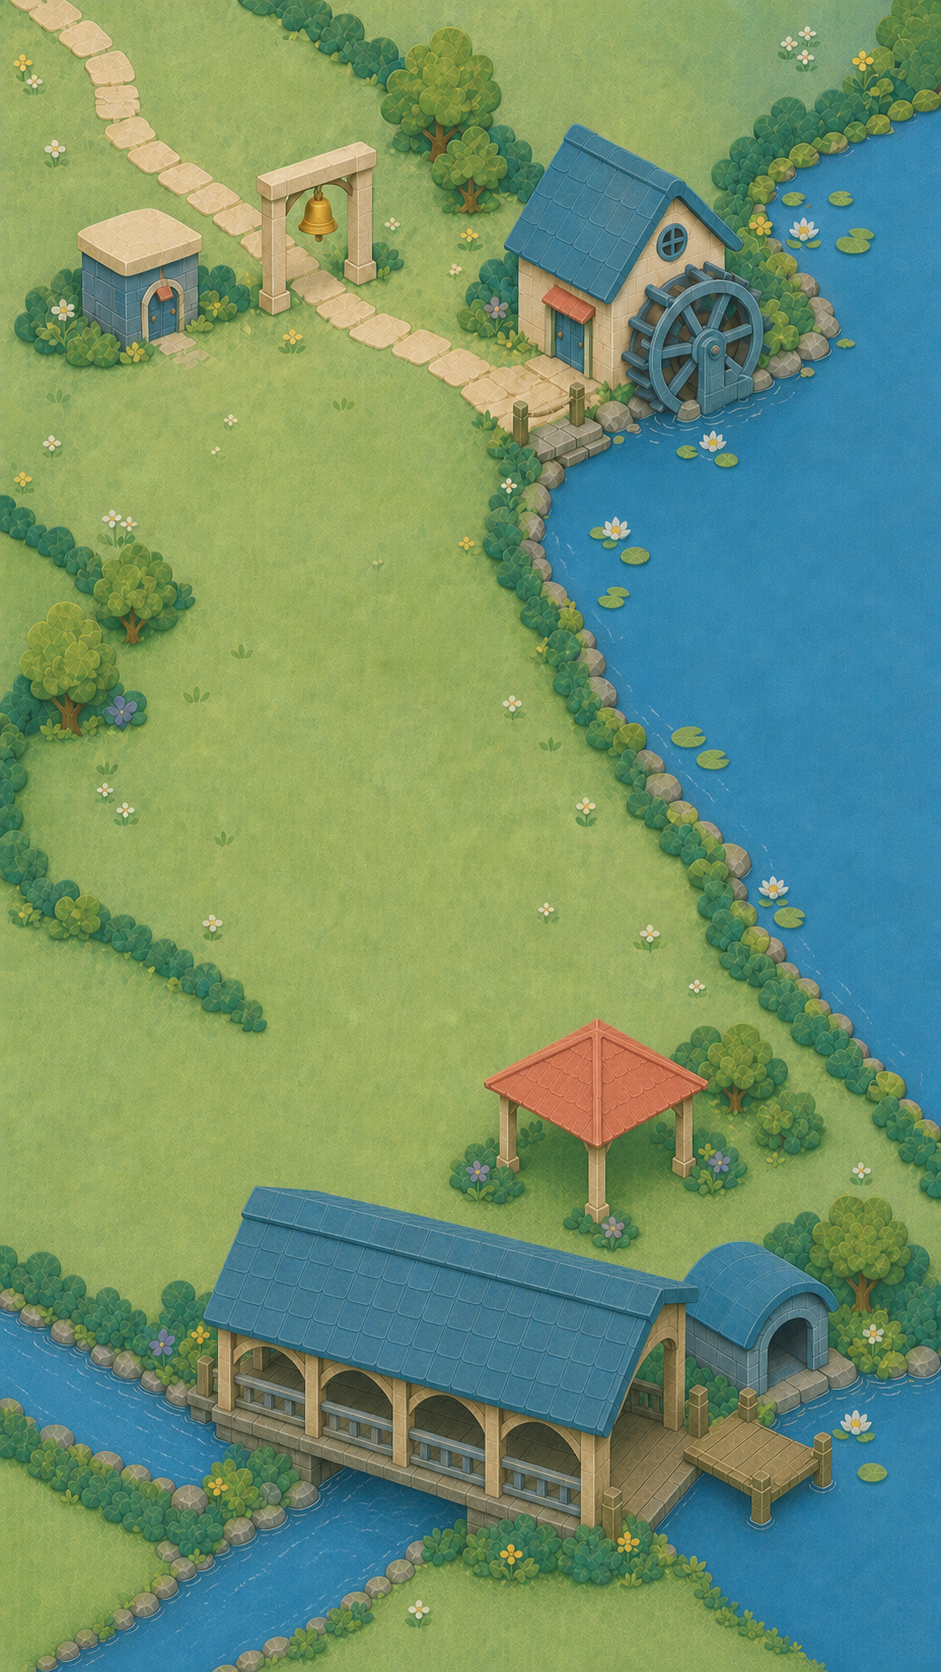
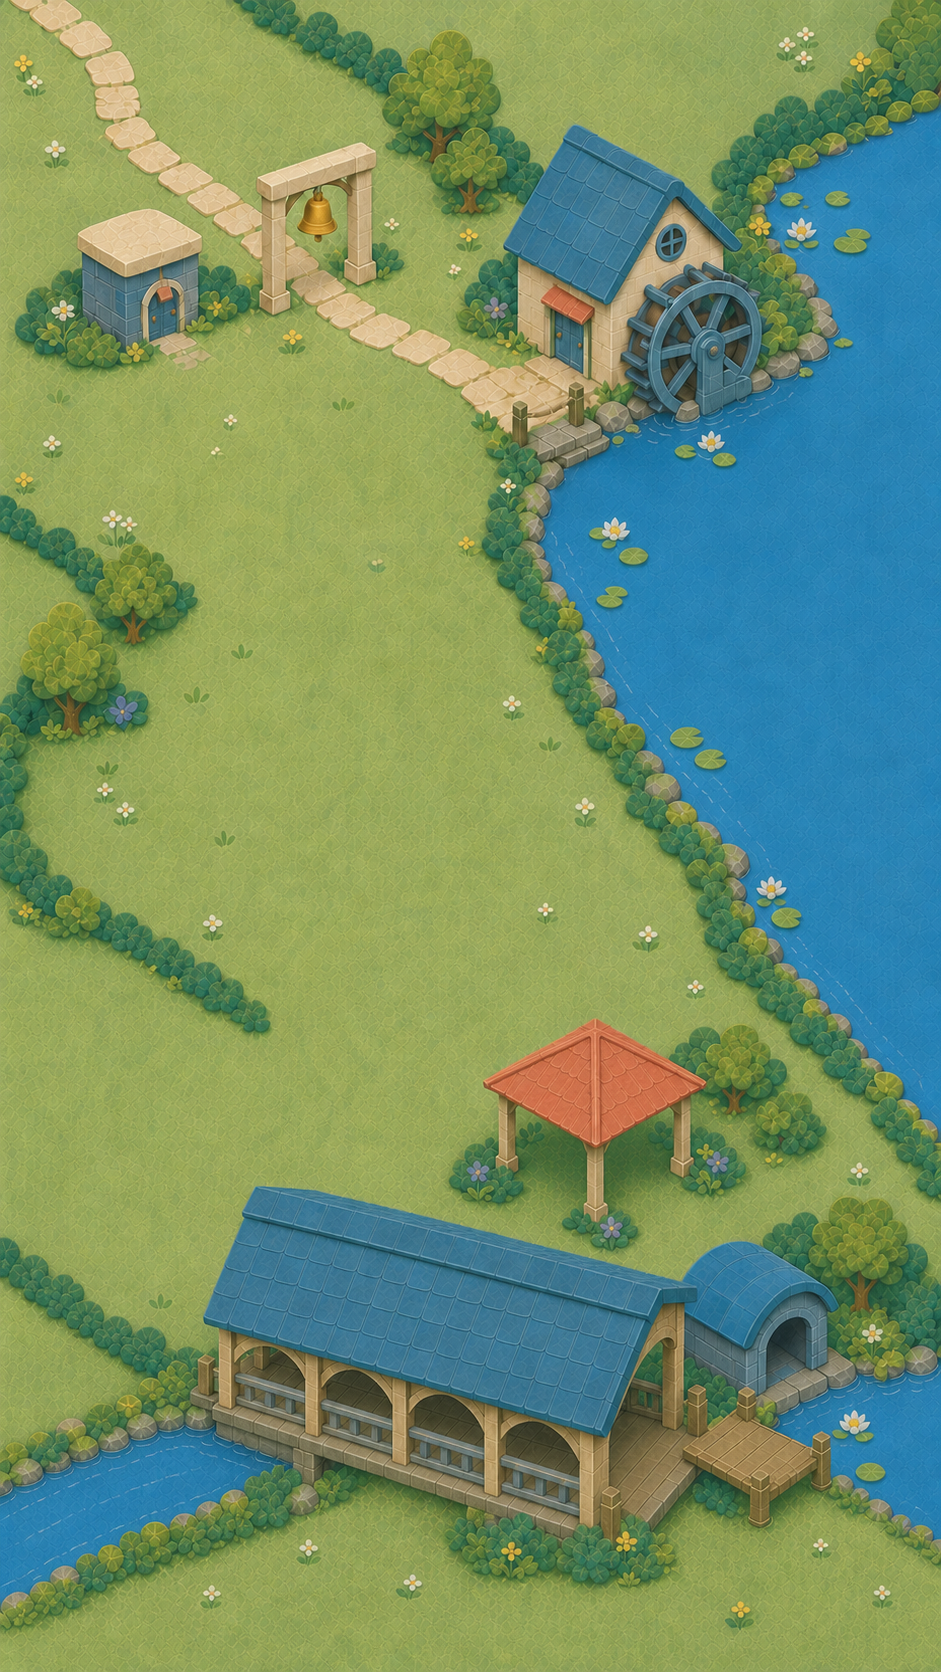
art: seal Bellwater bottom edge

diff --git a/games/grove/assets/_new/ui_redesign_direction_b/zone_reference_pack_meadow_sky_v3/README.md b/games/grove/assets/_new/ui_redesign_direction_b/zone_reference_pack_meadow_sky_v3/README.md
@@ -66,8 +66,19 @@ Both files are non-interlaced, 8-bit RGB PNGs at exactly `941 x 1672`.
 
 ```text
 730bc58e296170642d99ff6406b0b182cba49f11b297a2fc443cbf89216abde3  appleblossom_commons_mock_v3.png
-df292bae7511d2bf7ce529b04a981802e706cb825e861f35453398513b3c2b1a  bellwater_vale_mock_v3.png
+0d41156f0e49f4c06dbbcb47e1499b2ee19e780cc8baa0213e92607b069e39c7  bellwater_vale_mock_v3.png
 ```
+
+## Bellwater bottom-edge pixel evidence
+
+The final row at `y=1671` was scanned deterministically across all `941`
+pixels. A broad blue-dominance check (`B > G`) reports zero pixels and no
+intervals; its strongest final-row value is `max(B - G) = -60`. A narrower
+Meadow Sky water classifier (`B >= G + 8` and `B >= R + 30`) also reports zero
+pixels and no intervals. For comparison, the prior committed image reported
+277 water-like pixels in intervals `x=48–211` and `x=828–940` under the same
+water classifier. The entire final bottom row is therefore ground-colored,
+with no blue contact at either corner or anywhere between them.
 
 ## Anti-convergence verdict
 
@@ -83,4 +94,6 @@ distinct. Appleblossom's only promenade is unbranched and the Tea Pavilion sits
 directly on meadow without a paved or turf base. Bellwater water is one
 continuous basin-to-spillway body, never touches the bottom frame, and exits
 only the lower-left side edge; its Meeting House is the dominant bottom-center
-long-chevron structure rather than a barrel-roof form.
+long-chevron structure rather than a barrel-roof form. The final spillway
+curves out through the lower-left side above the corner, while pale-sage meadow
+forms one continuous bottom edge from x=0 through x=940.
